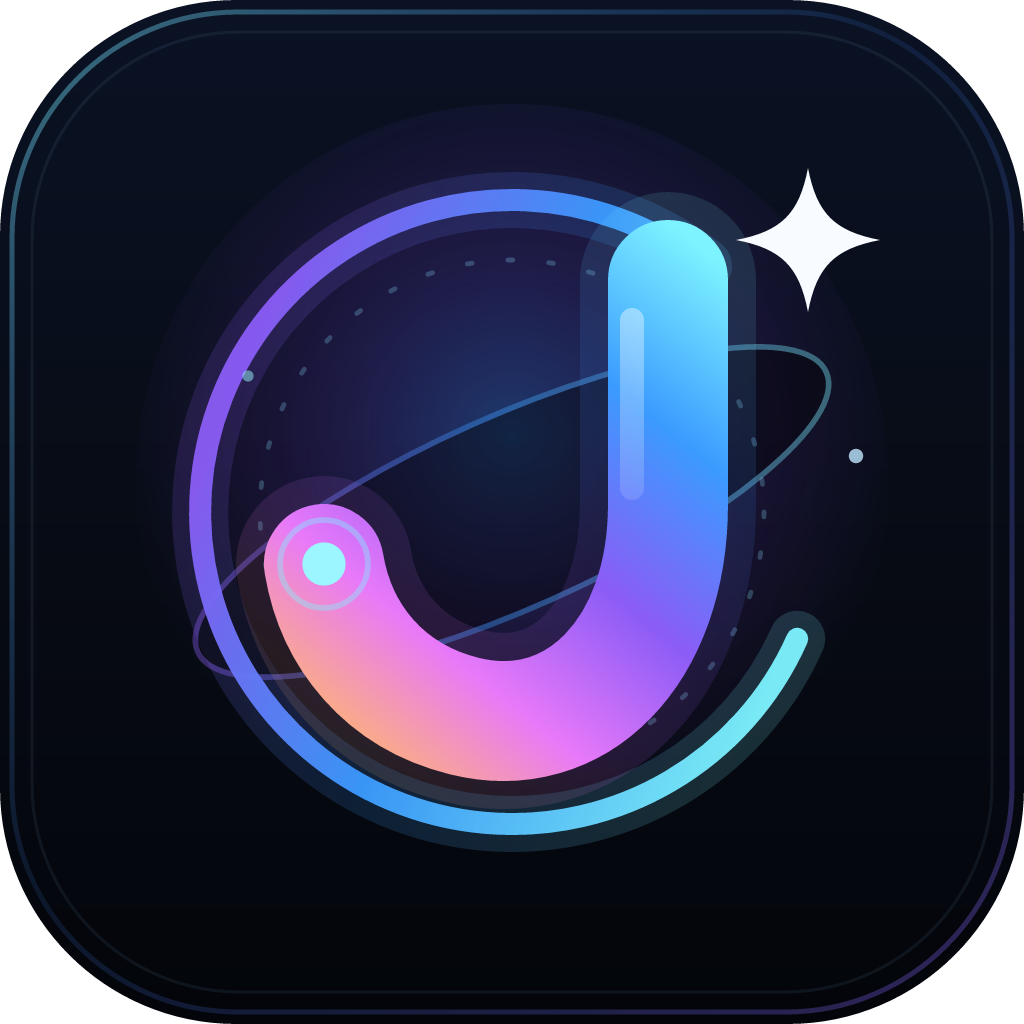
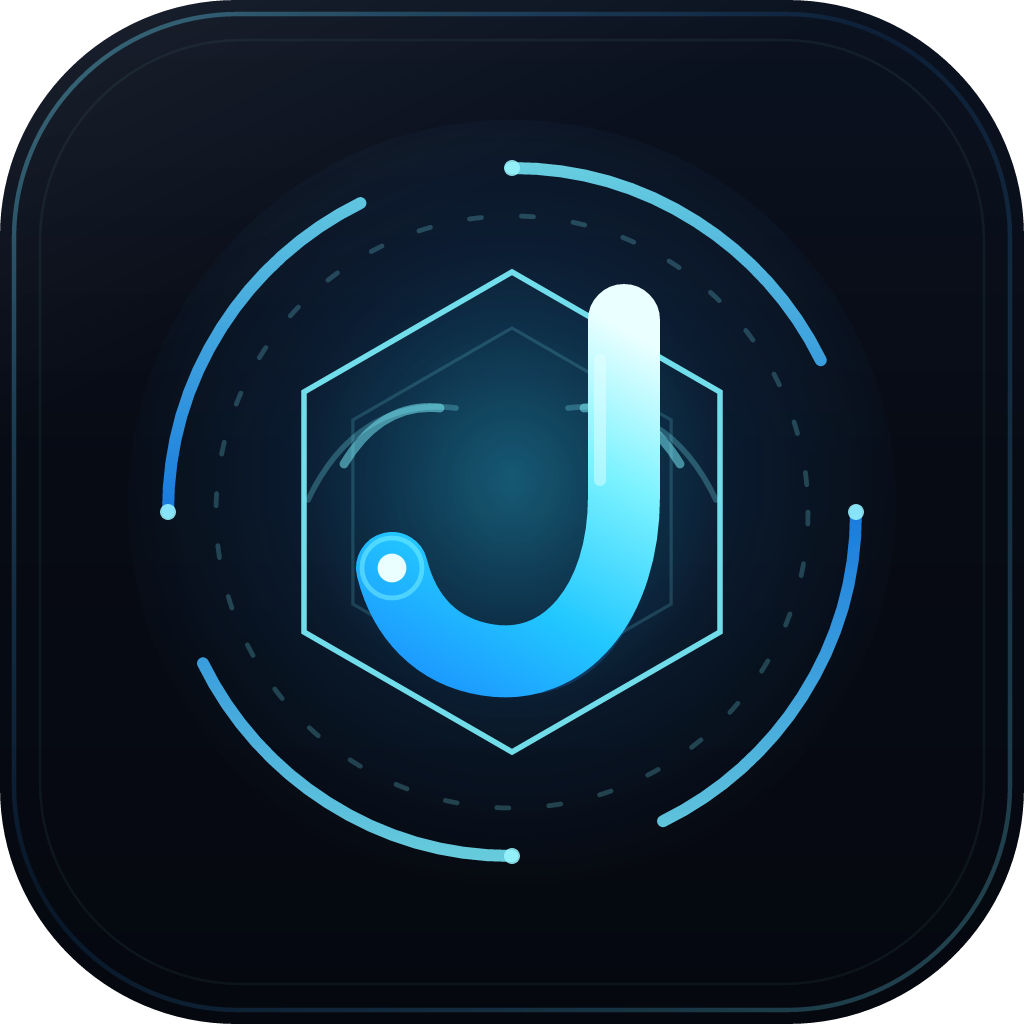
Freebuff: Made it more attratctive by using Prompt: Minimalist futu...

diff --git a/src/components/jarvis-logo.tsx b/src/components/jarvis-logo.tsx
@@ -2,24 +2,26 @@ import { useId } from "react";
 
 interface JarvisMarkProps {
   className?: string;
-  /** Turn on the orbit/twinkle/breathe loops. Off by default so static chrome stays calm. */
+  /** Turn on the orbit/breathe loops. Off by default so static chrome stays calm. */
   animate?: boolean;
   /** Soft colour bloom behind the glyph. */
   glow?: boolean;
-  /** Draw the ribbon, then sweep the ring in — for the boot screen. */
+  /** Draw the ribbon, then sweep the rings in — for the boot screen. */
   drawIn?: boolean;
 }
 
 /**
- * The Jarvis mark: a gradient ribbon "J" — leaning, with a deep hook — wrapped
- * by a tilted orbit ring with a four-point spark at its apex.
+ * The Jarvis mark: a geometric ribbon "J" lit in electric cyan, centred on a
+ * dark hexagonal core and framed by segmented HUD rings.
  *
- * The letterform is the point: the mark is the first letter of the name, so it
- * reads as a monogram before it reads as a shape, and the italic lean plus the
- * ring make it look like it is moving rather than sitting flat.
+ * The letterform is the point — it reads as a monogram first — but the icon is
+ * built symmetrically around it: six-sided core, four-segment outer ring, four
+ * cardinal nodes, and a pair of voice-wave arcs flanking the stem. The cyan is
+ * the only saturated colour, against a matte obsidian tile, which is what keeps
+ * it legible at 16px and composed at 140px.
  *
- * Drawn as SVG rather than shipped as a PNG so one source renders correctly at
- * 16px in a tab and 140px on the boot screen, and so the parts can move
+ * Drawn as SVG rather than shipped as a PNG so one source renders correctly in
+ * a tab, a home screen and the boot screen, and so the parts can move
  * independently. Gradients are per-instance (`useId`) because this mark appears
  * several times on a page; a shared id would make every copy resolve to the
  * first one's gradient.
@@ -37,15 +39,13 @@ export function JarvisMark({
   const ribbonId = `jarvis-ribbon-${uid}`;
   const ringId = `jarvis-ring-${uid}`;
   const bloomId = `jarvis-bloom-${uid}`;
+  const coreId = `jarvis-core-${uid}`;
 
   // Classes rather than inline styles so the reduced-motion media query can
-  // switch all three loops off in one place. The idle loops are suppressed
-  // while the mark is drawing itself in: both animations would write the same
-  // transform on the spark, and the boot screen is over before an idle loop
-  // would be visible anyway.
+  // switch the loops off in one place. The idle loops are suppressed while the
+  // mark is drawing itself in: both animations would write the same transform.
   const idle = animate && !drawIn;
   const orbit = idle ? "jarvis-mark-orbit" : undefined;
-  const spark = idle ? "jarvis-mark-spark" : undefined;
   const ribbon = idle ? "jarvis-mark-ribbon" : undefined;
 
   return (
@@ -57,125 +57,151 @@ export function JarvisMark({
       aria-label="Jarvis"
     >
       <defs>
-        {/* Cyan at the top, through blue and violet, into the pink and amber
-            the hook ends on at the lower left. */}
+        {/* Electric cyan, white-hot at the top of the stem and deepening as
+            the hook finishes. One gradient carries the whole letterform. */}
         <linearGradient
           id={ribbonId}
-          x1="150"
-          y1="36"
-          x2="52"
-          y2="158"
+          x1="124"
+          y1="52"
+          x2="70"
+          y2="146"
           gradientUnits="userSpaceOnUse"
         >
-          <stop offset="0%" stopColor="#7DF3FF" />
-          <stop offset="26%" stopColor="#3B9BFF" />
-          <stop offset="52%" stopColor="#8B5CF6" />
-          <stop offset="76%" stopColor="#E879F9" />
-          <stop offset="100%" stopColor="#FFB86B" />
+          <stop offset="0%" stopColor="#EAFFFF" />
+          <stop offset="30%" stopColor="#7DF3FF" />
+          <stop offset="65%" stopColor="#22C8FF" />
+          <stop offset="100%" stopColor="#1B8DFF" />
         </linearGradient>
         <linearGradient
           id={ringId}
-          x1="30"
-          y1="70"
-          x2="170"
-          y2="130"
+          x1="100"
+          y1="8"
+          x2="100"
+          y2="192"
           gradientUnits="userSpaceOnUse"
         >
-          <stop offset="0%" stopColor="#8B5CF6" />
-          <stop offset="45%" stopColor="#3B9BFF" />
+          <stop offset="0%" stopColor="#7DF3FF" />
+          <stop offset="50%" stopColor="#1B8DFF" />
           <stop offset="100%" stopColor="#7DF3FF" />
         </linearGradient>
-        {/* Rim light down the stem, fading out before the hook. */}
-        <linearGradient
-          id={`${ribbonId}-gloss`}
-          x1="0"
-          y1="42"
-          x2="0"
-          y2="120"
-          gradientUnits="userSpaceOnUse"
-        >
-          <stop offset="0%" stopColor="#FFFFFF" stopOpacity="0.55" />
-          <stop offset="100%" stopColor="#FFFFFF" stopOpacity="0" />
-        </linearGradient>
-        <radialGradient id={bloomId} cx="50%" cy="44%" r="52%">
-          <stop offset="0%" stopColor="#3B82F6" stopOpacity="0.42" />
-          <stop offset="58%" stopColor="#7C3AED" stopOpacity="0.15" />
-          <stop offset="100%" stopColor="#7C3AED" stopOpacity="0" />
+        {/* The hex core is a surface, not a shape: just enough light to read
+            as glass over the obsidian behind it. */}
+        <radialGradient id={coreId} cx="50%" cy="46%" r="56%">
+          <stop offset="0%" stopColor="#35D7FF" stopOpacity="0.16" />
+          <stop offset="62%" stopColor="#22C8FF" stopOpacity="0.05" />
+          <stop offset="100%" stopColor="#22C8FF" stopOpacity="0" />
+        </radialGradient>
+        <radialGradient id={bloomId} cx="50%" cy="46%" r="54%">
+          <stop offset="0%" stopColor="#22C8FF" stopOpacity="0.3" />
+          <stop offset="55%" stopColor="#1B8DFF" stopOpacity="0.1" />
+          <stop offset="100%" stopColor="#1B8DFF" stopOpacity="0" />
         </radialGradient>
       </defs>
 
-      {glow ? <circle cx="100" cy="92" r="94" fill={`url(#${bloomId})`} /> : null}
+      {glow ? <circle cx="100" cy="98" r="96" fill={`url(#${bloomId})`} /> : null}
 
-      {/* Soft halo on the aperture, so the ring reads as light rather than a
-          hairline at 24px. The bright stroke is drawn on top of it. */}
-      <path
-        d="M171.3 131.7A78 78 0 1 1 148 38.5"
-        stroke={`url(#${ringId})`}
-        strokeWidth="14"
-        strokeLinecap="round"
-        opacity="0.16"
-      />
-
-      {/* Tilted orbit behind the monogram: depth without closing the shape. */}
+      {/* Outer HUD ring: four equal segments with deliberate gaps. */}
       <g className={orbit}>
-        <ellipse
+        <circle
           cx="100"
           cy="100"
-          rx="86"
-          ry="24"
-          transform="rotate(-24 100 100)"
+          r="86"
           stroke={`url(#${ringId})`}
-          strokeWidth="1.4"
-          opacity="0.38"
+          strokeWidth="3"
+          strokeLinecap="round"
+          strokeDasharray="96 39"
+          opacity="0.85"
           pathLength={drawIn ? 100 : undefined}
           className={drawIn ? "jarvis-draw-ring" : undefined}
         />
       </g>
 
-      {/* Open aperture: one wide arc with a deliberate gap at the upper right,
-          where the spark sits. Thicker than a hairline so the silhouette
-          survives a 16px favicon as well as the boot screen. The frame stays
-          still while the tilted orbit turns behind it — a rotating frame with
-          a gap would read as a glitch. */}
-      <path
-        d="M171.3 131.7A78 78 0 1 1 148 38.5"
-        stroke={`url(#${ringId})`}
-        strokeWidth="5.5"
-        strokeLinecap="round"
-        opacity="0.95"
-        pathLength={drawIn ? 100 : undefined}
-        className={drawIn ? "jarvis-draw-ring-front" : undefined}
-      />
-
-      {/* Inner tick ring: dashed, so it reads as instrumentation rather than
-          another border. */}
+      {/* Inner tick ring: instrumentation, not another border. */}
       <circle
         cx="100"
         cy="100"
-        r="63"
-        stroke="#8BE0FF"
+        r="74"
+        stroke="#7DF3FF"
         strokeWidth="1.2"
         strokeLinecap="round"
-        strokeDasharray="1.2 9"
-        opacity="0.25"
+        strokeDasharray="3 10"
+        opacity="0.22"
       />
 
-      {/* The monogram J: one confident stroke, cyan at the top through violet
-          into the amber hook. Stroked so a single path carries the gradient
-          along the glyph's spine. A wider, faint copy underneath gives the
-          letter its inner light without an SVG filter. */}
+      {/* Four cardinal nodes give the frame its symmetry. */}
+      {[
+        [100, 14],
+        [186, 100],
+        [100, 186],
+        [14, 100],
+      ].map(([cx, cy]) => (
+        <circle key={`${cx}-${cy}`} cx={cx} cy={cy} r="2" fill="#9BF6FF" opacity="0.85" />
+      ))}
+
+      {/* Dark hexagonal core. Pointy-top, so the top vertex sits under the
+          stem and the bottom vertex under the hook. */}
+      <polygon
+        points="100,40 152,70 152,130 100,160 48,130 48,70"
+        fill={`url(#${coreId})`}
+        stroke="#7DF3FF"
+        strokeWidth="1.4"
+        opacity="0.9"
+      />
+      <polygon
+        points="100,54 139.8,77 139.8,123 100,146 60.2,123 60.2,77"
+        stroke="#7DF3FF"
+        strokeWidth="0.8"
+        opacity="0.16"
+      />
+
+      {/* Voice waves flanking the monogram: two quiet arcs each side, the
+          same vocabulary as the live-voice HUD. */}
       <path
-        d="M139 42V98C139 135 116 158 88 151C68 146 56 131 53 113"
-        stroke={`url(#${ribbonId})`}
-        strokeWidth="44"
+        d="M58 88C64 78 72 73 82 74"
+        stroke="#7DF3FF"
+        strokeWidth="2.2"
         strokeLinecap="round"
-        strokeLinejoin="round"
-        opacity="0.12"
+        opacity="0.5"
       />
       <path
-        d="M139 42V98C139 135 116 158 88 151C68 146 56 131 53 113"
+        d="M49 97C57 80 70 72 86 74"
+        stroke="#7DF3FF"
+        strokeWidth="1.4"
+        strokeLinecap="round"
+        opacity="0.26"
+      />
+      <path
+        d="M142 88C136 78 128 73 118 74"
+        stroke="#7DF3FF"
+        strokeWidth="2.2"
+        strokeLinecap="round"
+        opacity="0.5"
+      />
+      <path
+        d="M151 97C143 80 130 72 114 74"
+        stroke="#7DF3FF"
+        strokeWidth="1.4"
+        strokeLinecap="round"
+        opacity="0.26"
+      />
+
+      {/* An echo of the ribbon, offset behind it: the letter reads as fluid
+          light rather than a flat stroke. */}
+      <path
+        d="M128 52V96C128 123 113 140 94 137C81 135 73 126 70 114"
+        transform="translate(3.5 4.5)"
+        stroke="#1B8DFF"
+        strokeWidth="8"
+        strokeLinecap="round"
+        strokeLinejoin="round"
+        opacity="0.22"
+      />
+
+      {/* The J: a single geometric ribbon with a soft hook, lit from the top. */}
+      <path
+        d="M128 52V96C128 123 113 140 94 137C81 135 73 126 70 114"
         stroke={`url(#${ribbonId})`}
-        strokeWidth="30"
+        strokeWidth="18"
         strokeLinecap="round"
         strokeLinejoin="round"
         pathLength={drawIn ? 100 : undefined}
@@ -184,38 +210,25 @@ export function JarvisMark({
           .join(" ")}
       />
 
-      {/* Glass highlight down the stem's left edge. */}
+      {/* Glass highlight down the stem. */}
       <path
-        d="M130 52V94"
-        stroke={`url(#${ribbonId}-gloss)`}
-        strokeWidth="6"
+        d="M122 62V92"
+        stroke="#EAFFFF"
+        strokeWidth="3"
         strokeLinecap="round"
-        opacity="0.8"
+        opacity="0.45"
       />
 
-      {/* Terminal node at the hook: the mark's "live" point. */}
-      <circle cx="53" cy="113" r="5.4" fill="#9BF6FF" />
+      {/* Terminal node at the hook, the mark's "live" point. */}
+      <circle cx="70" cy="114" r="3.6" fill="#EAFFFF" />
       <circle
-        cx="53"
-        cy="113"
-        r="11"
+        cx="70"
+        cy="114"
+        r="7.5"
         stroke="#7DF3FF"
-        strokeWidth="1.4"
-        opacity="0.4"
+        strokeWidth="1.2"
+        opacity="0.5"
       />
-
-      {/* Four-point spark in the aperture gap. */}
-      <path
-        d="M174 14C176.2 25.4 180.6 29.8 192 32C180.6 34.2 176.2 38.6 174 50C171.8 38.6 167.4 34.2 156 32C167.4 29.8 171.8 25.4 174 14Z"
-        fill="#F8FBFF"
-        className={[spark, drawIn ? "jarvis-draw-spark" : ""]
-          .filter(Boolean)
-          .join(" ")}
-      />
-
-      {/* Two quiet satellites so the field feels inhabited at large sizes. */}
-      <circle cx="186" cy="86" r="1.8" fill="#BFE9FF" opacity="0.8" />
-      <circle cx="34" cy="66" r="1.4" fill="#9BF6FF" opacity="0.5" />
     </svg>
   );
 }
@@ -264,7 +277,7 @@ export function JarvisLogo({
           className={`${WORDMARK_SIZE[size]} font-semibold tracking-[0.18em] whitespace-nowrap`}
         >
           JARVIS
-          <span className="ml-1 bg-gradient-to-r from-cyan-400 via-blue-500 to-fuchsia-500 bg-clip-text text-transparent">
+          <span className="ml-1 bg-gradient-to-r from-cyan-400 via-sky-400 to-blue-500 bg-clip-text text-transparent">
             AI
           </span>
         </span>
